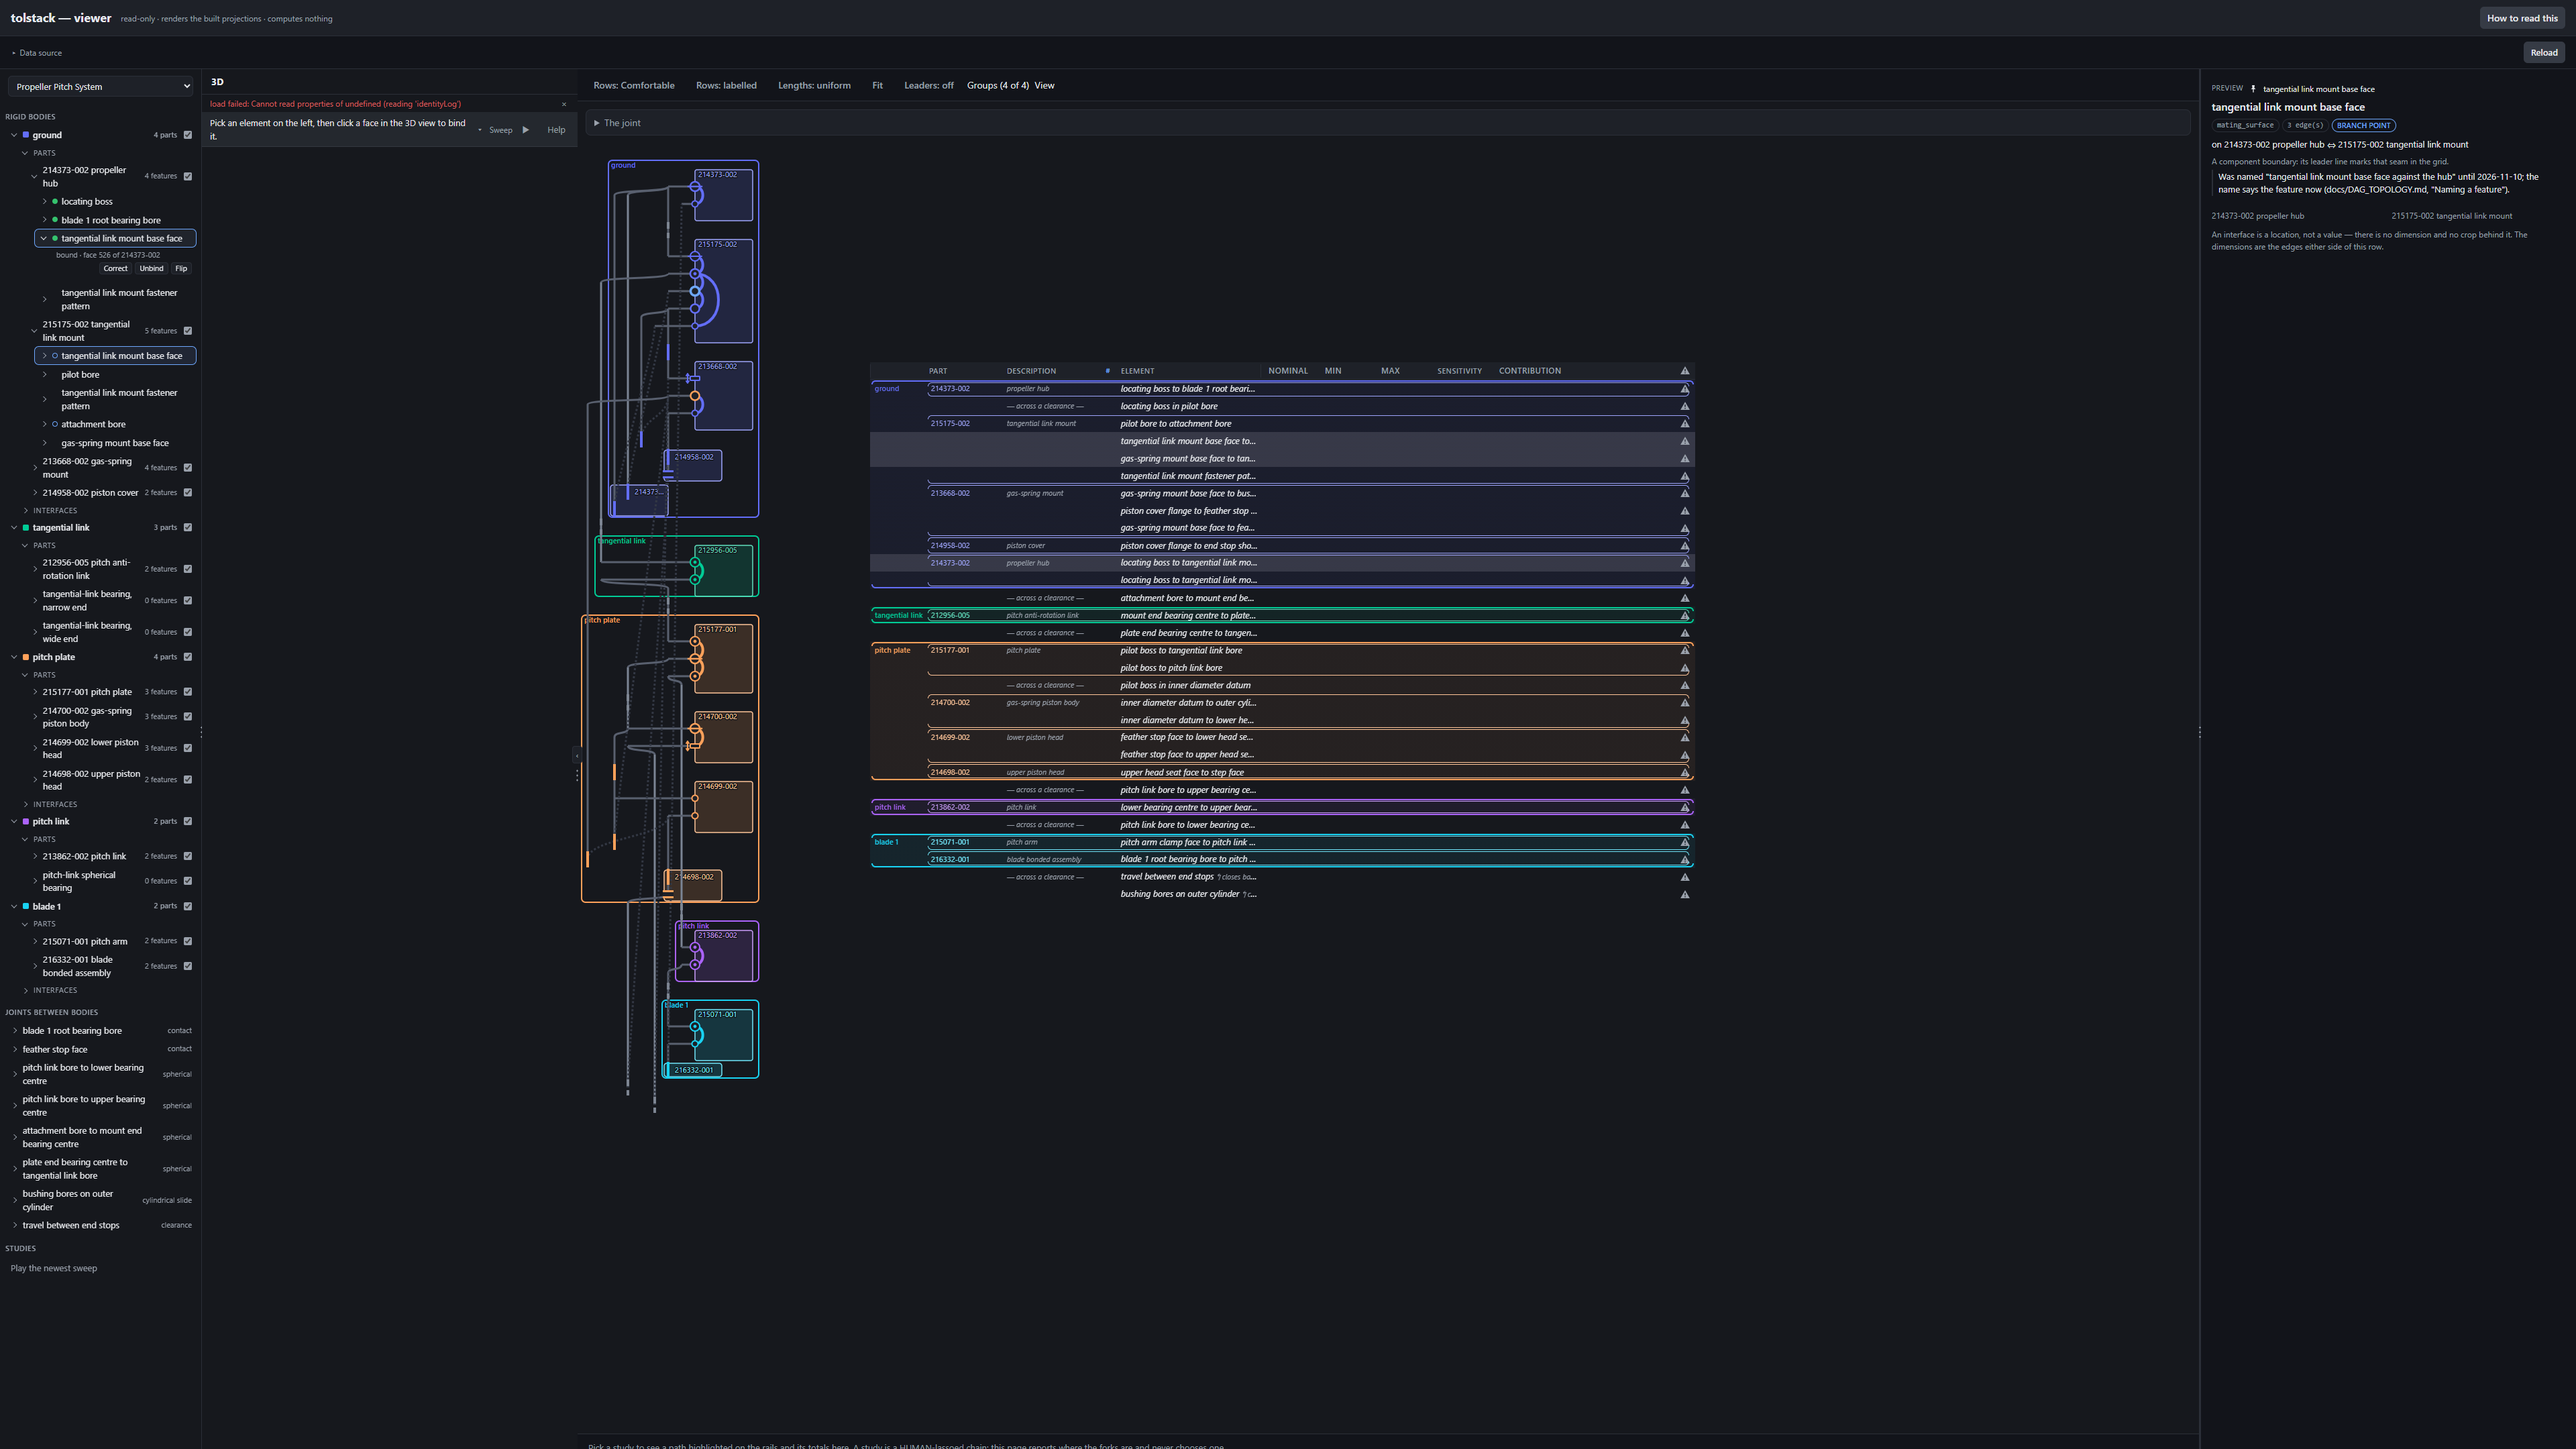
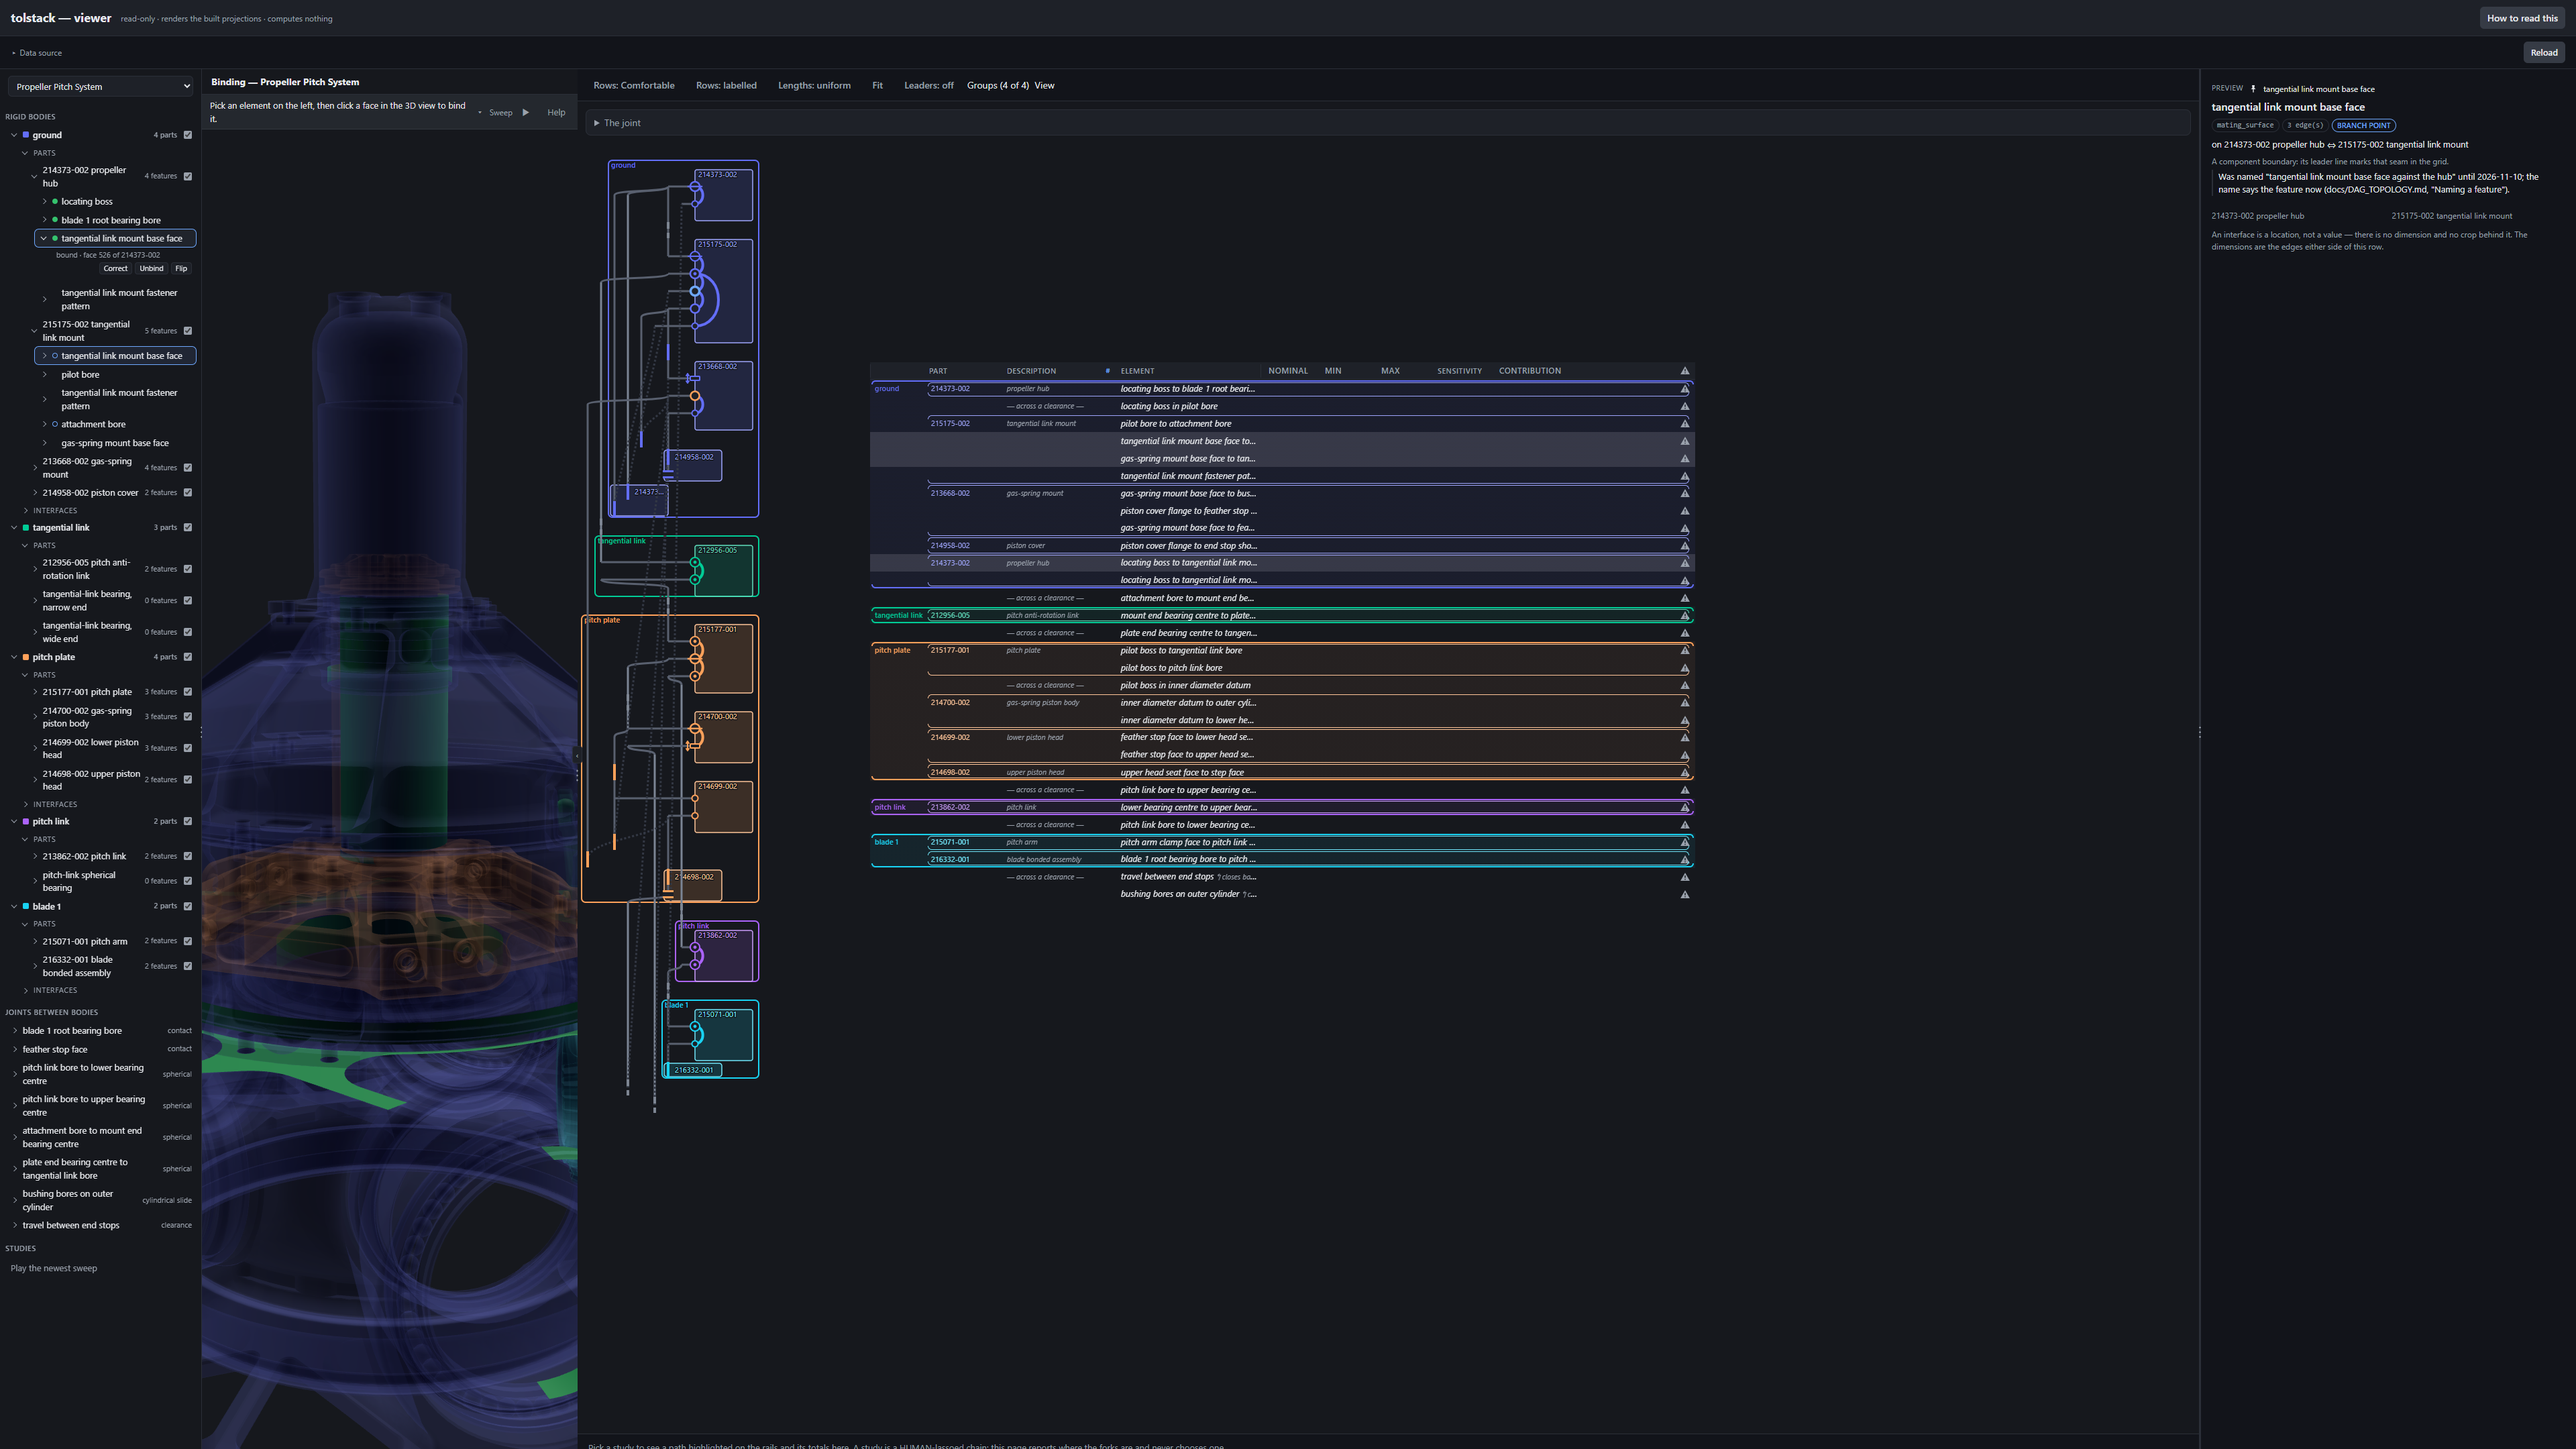
probe: the scratch flow picks an unbound, unsuggested feature; lesson draft

Changed region(s): [[0.0625, 0.1861, 0.25, 1.0], [0.0938, 0.062, 0.1875, 0.0931]]

diff --git a/docs/sessions/lessons/LESSONS_20261112_a_binding_shows_the_moment_it_is_made_and_is_corrected_where_it_is_shown.md b/docs/sessions/lessons/LESSONS_20261112_a_binding_shows_the_moment_it_is_made_and_is_corrected_where_it_is_shown.md
@@ -1,0 +1,101 @@
+# Lessons — a_binding_shows_the_moment_it_is_made_and_is_corrected_where_it_is_shown (2026-11-12)
+
+## The refresh mechanism chosen, and what a write costs
+
+**The pages read the log now, not the fold.** I did not use the suggested
+"give the viewer's http adapter the served `bindings.json`", because no
+drawing-checker mount serves `projections/feature-identity/`. `/tolstack/data/`
+is `projections/viewer/` and nothing else (`webui/analyses.py`'s
+`tolstack_mounts`), and the handoff fences drawing-checker off. So:
+
+- `feature_identity.main()` (rebuild step 5) also writes the **served log**,
+  `data/projections/viewer/feature-identity/log.json`: every event verbatim in
+  log order, plus the installed meshes' sha256. It is a copy of inputs, so it
+  goes through no provenance gate.
+- Both pages fold it in the browser (`apps/viewer/identity_fold.js`, one file
+  for both apps). `tests/test_identity_fold_is_paired.py` runs node from
+  pytest and compares the JS fold with `build_projection` record for record,
+  including restated accepts, seq collisions, corrections and unbinds.
+- After **every** event, the pane re-reads the inbox through its grant,
+  rewrites the served log through the same grant, repaints its bound faces and
+  posts `annotate:identity` (its merged record) to the shell. A reload with no
+  grant then reads the rewritten copy.
+- **Not chosen:** the full rebuild route. The 11-11 rebuild ran 21:05:58 to
+  21:12:44 by projection mtimes, about 6 m 46 s, mostly contact suggestions.
+  Filed `ISSUE_20261112_bindings_json_waits_for_a_full_rebuild_and_the_mount_has_no_narrow_refold.md`
+  for a narrow refold route. `bindings.json` (the fitter's input) still lags
+  the log until the next rebuild, and nothing a person looks at reads it now.
+- **Measured time per write:** see "The DoD run" below
+  (`window.__lastServedLogMs`, the re-read plus the rewrite).
+
+## Things that cost time
+
+- **The annotate page has no `VA.CONFIG`.** It loads the viewer's
+  `storage/http.js` but not the viewer's `config.js`. A viewer-adapter method
+  that reads `VA.CONFIG` therefore works in the viewer and throws in the pane
+  ("load failed: Cannot read properties of undefined (reading 'identityLog')").
+  The first probe run caught it; the fast tier had not. The pane now reads the
+  log through `servedRelative(AA.CONFIG.servedIdentityLog)`, like every other
+  read set file, and the http check in `apps/annotate/run_tests.cjs` reads it
+  there. Rule: in `apps/annotate/storage/http.js`, call only the viewer
+  adapter's path-taking readers (`readDataJson`, `readMeshJson`).
+- **`window.__sweep.armed` is read by ~20 browser checks and 4 witness
+  anchors.** The armed pick moved to `state.armed` (it now works with no
+  sweep). Renaming every site broke those anchors. Fix: `state.sweep.armed` is
+  an accessor onto `state.armed` (`Object.defineProperty` at sweep creation),
+  and the four anchored lines are back verbatim. Before renaming a state field
+  in `app.js`, grep `scripts/run_viewer_browser_tests.mjs` and
+  `scripts/mutation_witnesses/` for it.
+- **Five witness anchors moved with the code**: the fold left
+  `binding_state.js`, the per-part status rewrote `model.js`'s
+  `featureStatus`, and the arm's pose block was re-indented. I found them with
+  a ten-line script that checks each spec's `find` against its file. That is
+  faster than waiting for the `--changed-since` gate to say `anchor gone`.
+- **Heredocs through the Bash tool** broke twice on edit scripts that
+  contained both quote kinds; the memory note is right. Write the script with
+  the Write tool.
+
+## Decisions not in the handoff
+
+- **Flip is offered only on a dimension edge whose other end has no face.** A
+  flip on a gap edge would move the face onto the other part, which is never
+  right, and a flip into an occupied end stacks two faces.
+- **Unbind retracts every standing binding at that end** (normally one). A
+  retraction may not name a binding already superseded or retracted. A
+  binding taken back may not be superseded afterwards; a new pick binds afresh.
+- **Suggested with no pane rows** (the run does not carry the feature) shows
+  `suggested · <surest confidence>` and Pick a face, armed at the proposal's
+  end. A click answers the proposal through `AA.planAnswer`, as on the rail.
+- **Bound faces** sits in the top bar's Display group (the top bar's
+  collapsible half), in both modes, on by default, stored like the other
+  display settings.
+- **Orphans**: the mesh test uses the installed-mesh list the served log
+  carries (or the pane's mesh list). With no list, no mesh is judged.
+
+## What the re-keying handoff (a feature bound once, to a set of faces) finds
+
+Already done:
+- One JS fold for both apps (`identity_fold.js`), paired with Python. A new
+  record shape changes in two places, and the pairing test fails until both
+  agree.
+- The model already answers per feature: `model.endsOf(fid)`,
+  `model.bindingsOf(fid)`, `model.proposalsOf(fid)`, on the feature's own
+  part. The tree's status, body, hover and actions all read these, not edges.
+- Unbind (`retracted`) and correction (`supersedes`) are verdicts on the log.
+  The body's verbs (`arm`, `unbind`, `flip`) name an edge end, and only
+  `VA.featureBodyPlan` builds them.
+
+Still to migrate:
+- **Every event is still keyed by edge end** (`stack_key` = topology edge,
+  `direction`). A feature-keyed stream needs a new stack-key kind (or event
+  schema) and a one-time migration of the log. Do not rewrite the files:
+  write new feature-keyed events that `supersedes`/`retracts` the edge-keyed
+  ones. Both folds and the pairing test change together.
+- `featureBodyPlan` picks "the feature's first own edge end" for a feature
+  with nothing bound. That choice disappears with feature keys.
+- The pane's rail rows are still keyed by edge end (`sweepRowsForFeature`, the
+  `#element-list` rows). The tree uses them only for a suggestion now.
+
+## The DoD run
+
+(filled in below from the probe's output)
